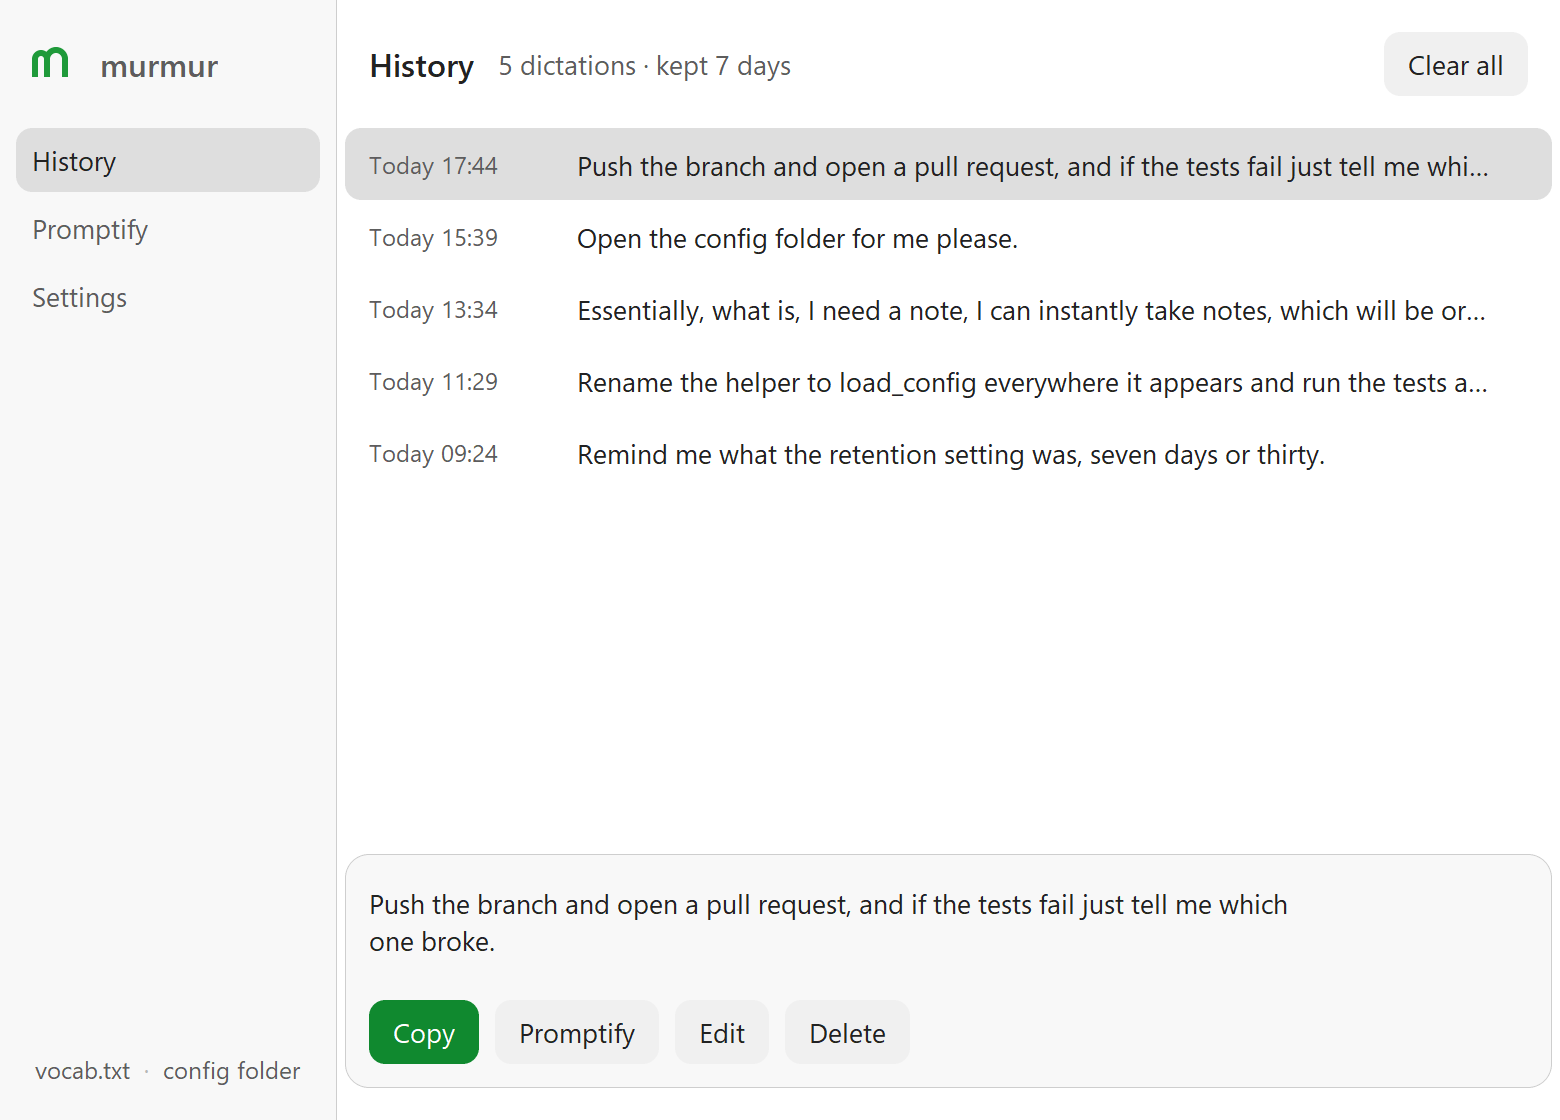
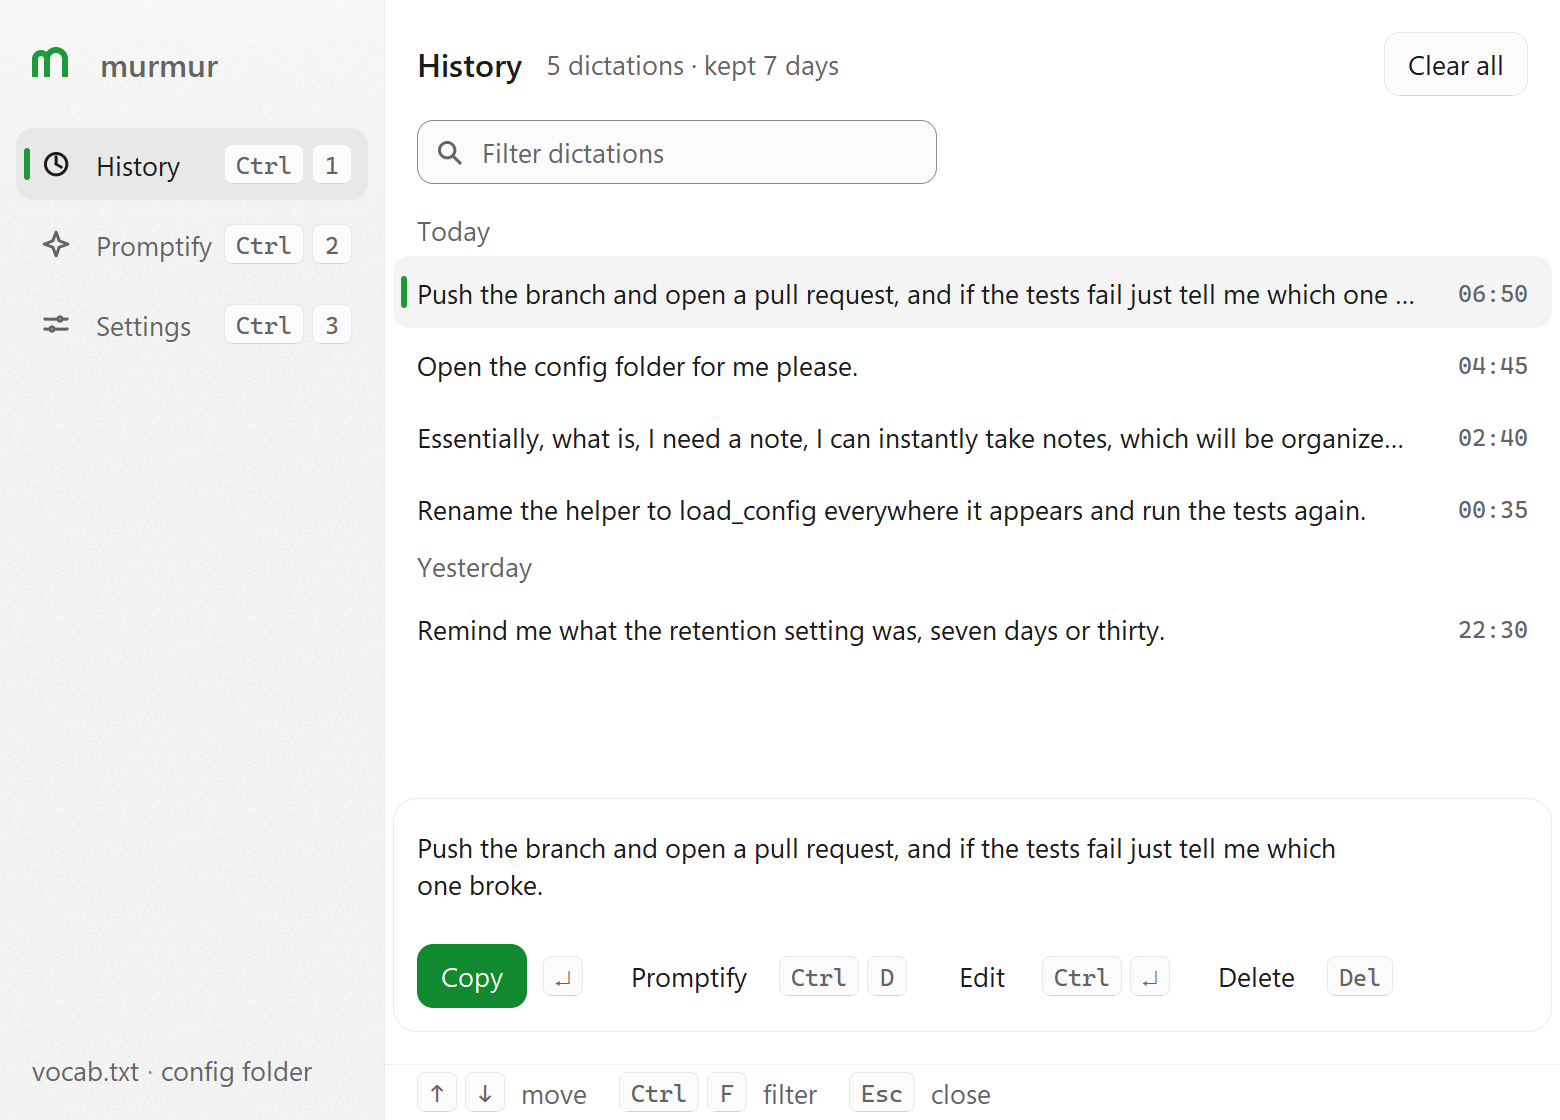
NOTES: the ultracode pass (speed, size, the judged design and build stages 1-3, what is left); README screenshots regenerated for the new UI
Claude-Session: https://claude.ai/code/session_01EhJy6J64smwzXCeLuE5MXe

diff --git a/NOTES.md b/NOTES.md
@@ -208,6 +208,41 @@ Decisions
   Text clip the last one - the panel's Texts have no spacing. Dictating into an answer field
   works because Typist already skips the paste when murmur's own window is in front; the take
   now also lands in the focused panel field (and in History like any take).
+- 1.0.0, the ultracode pass (2026-09-07..09): "make the ui more modern... optimization... ui
+  transitions looking more clean... reduce all unnecessary code and make compact for installation".
+  Measured before anything: a view switch cost 90-160 ms (Tk re-laid the whole subtree out on
+  grid_remove/grid; plus a PATH scan - 242 path-exists checks - on every Promptify switch via
+  connect.status -> find_exe), the first window open 1.4 s, dist 299 MB. (1) SPEED: every view stays
+  gridded and go() raises the target (experiment: 143-164 -> 16-25 ms Promptify, 35 -> 15 History,
+  162 -> 44 Settings); the Promptify pane rebuilds only when (state, item, text, draft, sheet) changed
+  (p_memo); engine status cached per session with a 60 s TTL (cleared by the sheet's actions); the
+  window is prebuilt hidden 1.5 s after the model is ready; a _tab guard keeps focus inside the shown
+  view. Gotcha found on the way: Tk paths are prefixes of each other (.!toplevel.!frame prefixes
+  .!toplevel.!frame2) - the containment test needs path + "." or every sibling matches, and the
+  earlier "Tk skips covered widgets" reading came from exactly that bug. (2) SIZE, by a verified
+  workflow: PyAV (66 MB of FFmpeg DLLs) is import-bound only - faster_whisper/audio.py imports av at
+  module level but murmur always hands numpy to transcribe - so stubs/rthook_av.py stands in and
+  --collect-all av is gone; pandas (via tqdm.pandas(), lazy), lxml/bs4/soupsieve/xlsxwriter/dateutil
+  (pandas' io), pytest/_pytest/pygments (pandas.conftest, httpx's optional CLI), pydantic(+core)
+  (huggingface_hub's webhooks, guarded), hf_xet (is_xet_available() gate), tzdata (zoneinfo
+  try/except), sqlite3 (filelock's optional ReadWriteLock), PIL._avif/_imagingft (try/except codecs)
+  are all excluded; huggingface_hub collected without duplicate .py sources. dist 299 -> 175 MB
+  (172.3 MiB, 1,207 files); a refuter re-measured, ran the frozen exe (model ready, VAD warm), ran the
+  real transcription suite, and proved the first-run download still works without hf_xet. (3) DESIGN
+  by the method: BRIEF3.md (what "modern" means here as six checkable properties), REFERENCES.md,
+  three mockup directions rendered by headless Chrome - A Fluent-2 native, B glass echoing the
+  overlay, C quiet-pro icon rail - judged by three lenses (taste 8/7/5 for B/A/C, method 7/5.5/5,
+  build 7/3/8): A won 21 vs C 18 vs B 16.5, with B's icon+label segment and C's zero-shadow rule
+  grafted; B's glow was the "larper" tell. Spec BUILD3.md (881 lines, function by function). Build
+  stages landed: 1 tokens/palette/renderers (Fluent elevation borders, grain, specular, nine
+  geometry-drawn glyphs, keycaps), 2 sidebar as one Canvas with icons + Ctrl 1/2/3 caps + the
+  indicator bar, footer hint strips, Ctrl+, Ctrl+W Ctrl+F Esc bindings, reduced-motion detection,
+  3 RowList day groups + right-aligned mono time column + draft mark, the filter field, action-row
+  caps, button hover blend - and a pre-existing bug: show_sel ran before the list had a size so
+  every fresh list opened scrolled. Stages 4-7 (Promptify header segment with icons, Settings
+  icons/60 px rows/raised trigger cap, motion, reconciliation) and the screenshot-review round did
+  NOT run: the session hit its usage limit twice; the workflow resumes from its journal (run
+  wf_20bd8301-0aa). Suites green at each landed stage; switch times unchanged within 2 ms.
 - 1.0.0, "can't find murmur in the Windows search bar" + the model cap (2026-09-01). Search:
   Windows finds apps through Start Menu shortcuts, and the mirror installs since 08-31 (robocopy
   /MIR of dist into %LOCALAPPDATA%\Programs\murmur, because Inno Setup vanished) never made
